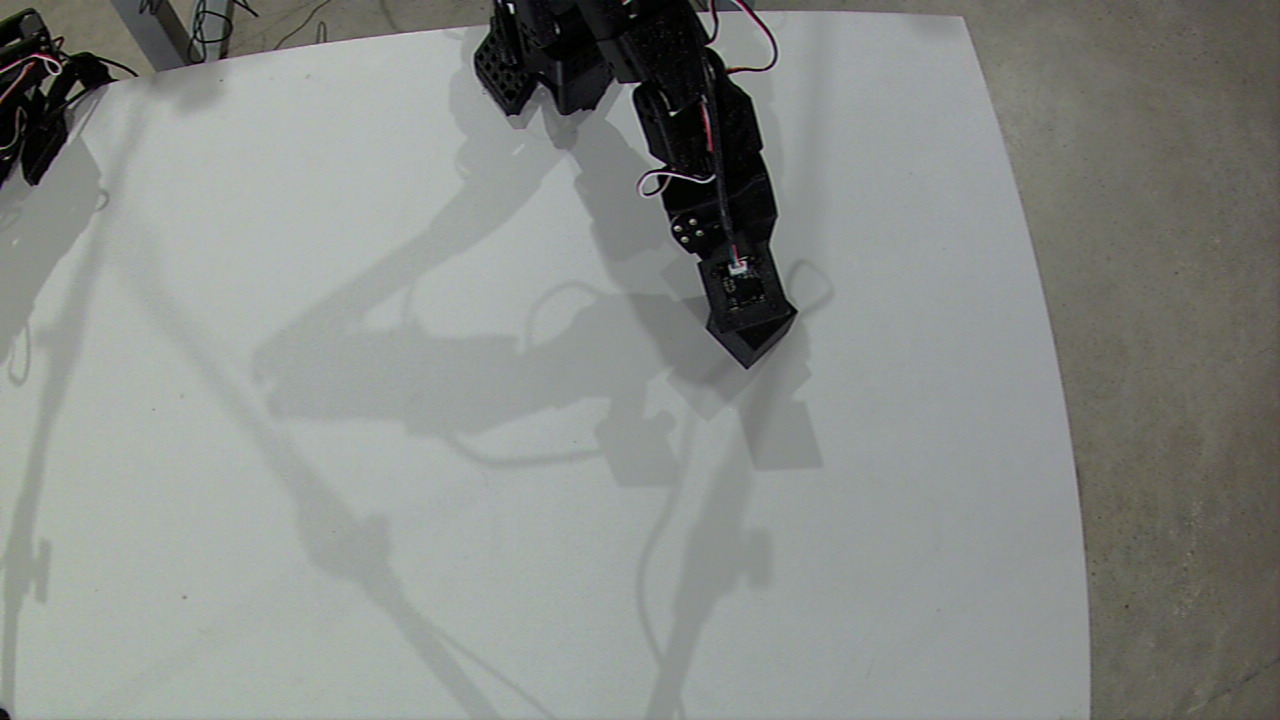
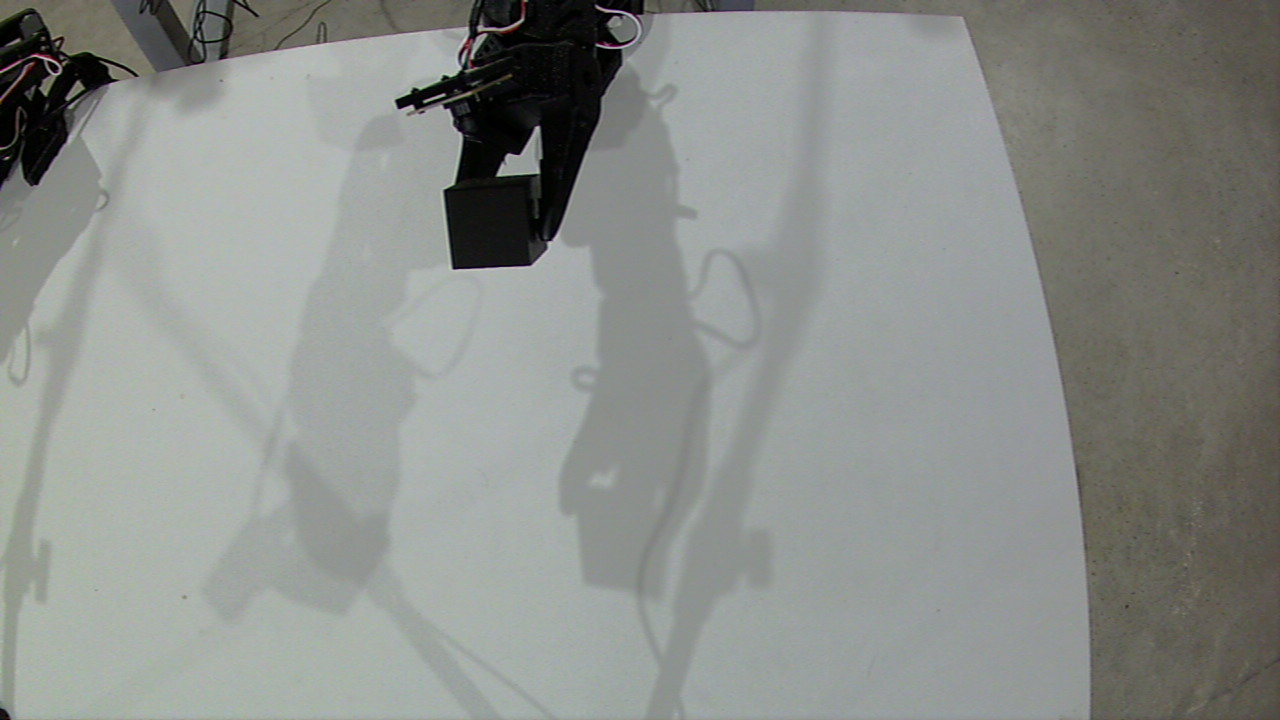
Update tools for arm-007__gpt-6-astra__grasp-cube
{"agent_id": "arm-007__gpt-6-astra__grasp-cube", "designation": "arm-007", "identity_version": 2, "model": "gpt-6-astra", "provider": "codex", "task_definition": {"description": "Start episode, pickup the black cube, bring black cube to home position, confirm successful grasp, stop episode, return object to new position, return home, repeat", "id": "grasp-cube", "success_criteria": ["successful episode coverage across the entire workspace", "achieve at least 50 successful episodes an hour"], "version": 2}, "task_id": "grasp-cube", "task_sha256": "e6c8adbb1562fdc6af3405e2e618046b110e27856c520c9f5cd329c258fb3818", "task_version": 2, "tools_sha256": "32f93a7c3ba63c4b6db63802f2a4bac6bfb2b43d2aa114ecf1eb63cf7b8ebee3"}

Changed region(s): [[0.2812, 0.0, 0.6562, 0.6417], [0.4375, 0.5806, 0.5, 0.825], [0.4688, 0.3667, 0.5, 0.3972]]

diff --git a/agents/arm-007__gpt-6-astra__grasp-cube/cube_cycles.py b/agents/arm-007__gpt-6-astra__grasp-cube/cube_cycles.py
@@ -75,10 +75,11 @@ def run(n):
      p=b.read('Present_Position','gripper')
      img,_=read_frame('wrist')
      forward_dark=float(np.mean(cv2.cvtColor(img[200:450,700:1000],cv2.COLOR_BGR2GRAY)<65))
-     if not (p<10 and forward_dark>.7 and os.environ.get('CUBE_PITCH')=='35'):raise
+     if not (p<10 and forward_dark>.7 and current['elbow_flex']>=20):raise
      if any(c.fault_bits(b,j) for j in c.JOINTS):raise
      move(b,{'gripper':55},1.3);move(b,above(current),2)
-     pickup=pose(current['shoulder_pan'],current['elbow_flex']-10)
+     pickup=pose(current['shoulder_pan'],current['elbow_flex']-15)
+     pickup['shoulder_lift']+=depth;pickup['wrist_flex']-=depth
      move(b,above(pickup));move(b,pickup,2);contact=grip(b)
     move(b,above(pickup),3)
     # Retain the seated closing target through lift and home.
